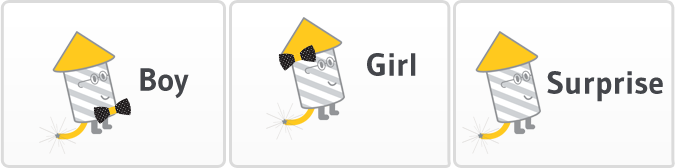
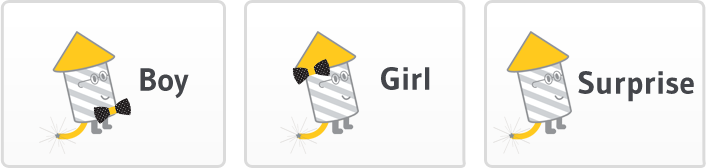
[enroll] page 1: child's info submit

diff --git a/app/assets/stylesheets/enrolment.css.scss b/app/assets/stylesheets/enrolment.css.scss
@@ -50,6 +50,7 @@
       margin: 20px auto 0;
       input {
         margin-bottom: 0;
+        width: 226px;
       }
     }
     .text.italic {
@@ -62,22 +63,18 @@
   }
   #btn-submit {
     width: 265px;
-    height: 40px;
-    position: absolute;
-    z-index: 100;
-    opacity: 0;
+    background-image: url("common/icon-right-arrow.png");
+    width: 265px;
+    background-position: 220px 16px;
+    background-repeat: no-repeat;
+    padding-right: 20px;
+    font-size: 20px;
   }
   #lnk-submit {
     padding-left: 30px;
     padding-right: 30px;
   }
   #birthday {
-    input {
-      width: 86px;
-    }
-    #child_day ~ label{
-      left: 106px !important;
-    }
     .info-panel {
       width: 314px;
       div:nth-child(2) input {
@@ -91,36 +88,39 @@
       margin-left: 5px;
     }
   }
-  #name {
-    input {
-      width: 226px;
-    }
-    .info-panel {
-      width: 460px;
-      &  > div:first-child input{
-        margin-right: 8px;
-      }
+  #name .info-panel {
+    width: 460px;
+    &  > div:first-child input{
+      margin-right: 8px;
     }
   }
   #gender {
     margin-top: 25px;
+    input[type=radio] {
+      display: none;
+    }
+    label.collection_radio_buttons {
+      width: auto;
+      margin: 0;
+    }
     .icon-question {
       margin-left: 15px;
     }
     .icon-gender {
       background: url('common/icon-gender.png') no-repeat;
       height: 168px;
-      width: 224px;
+      width: 222px;
+      cursor: pointer;
       &.boy {
         background-position: 0 0;
         width: 226px;
       }
       &.girl {
-        background-position: -227px 0;
-        margin: 0 15px;
+        background-position: -244px 0;
+        margin: 0 17px;
       }
       &.surprize {
-        background-position: -451px 0;
+        background-position: -484px 0;
       }
     }
   }

diff --git a/app/assets/stylesheets/general_ui.css.scss b/app/assets/stylesheets/general_ui.css.scss
@@ -162,6 +162,7 @@ a.underline-link { border-bottom: solid 1px #ffc91e; }
 .icon-question {
   width: 23px;
   height: 23px;
+  cursor: pointer;
 }
 
 .alert-box{

diff --git a/app/assets/javascripts/application.js b/app/assets/javascripts/application.js
@@ -13,4 +13,5 @@
 //= require jquery
 //= require jquery_ujs
 //= require twitter/bootstrap
+//= require bootstrap-datepicker
 //= require application

diff --git a/app/assets/stylesheets/application.css b/app/assets/stylesheets/application.css
@@ -11,4 +11,5 @@
  *= require_self
  *= require_tree .
  *= require bootstrap_and_overrides
+ *= require bootstrap-datepicker
  */

diff --git a/app/controllers/enrolment_controller.rb b/app/controllers/enrolment_controller.rb
@@ -1,5 +1,16 @@
 class EnrolmentController < ApplicationController
   def step_1
+    @child = Baby.new
+  end
+  def create_baby
+    birthday = params[:child][:birthday]
+    params[:child][:birthday] = Date.strptime(birthday, '%m/%d/%Y') if birthday.present?
+    @child = Baby.new params[:child]
+    if @child.save
+      redirect_to enrolment_step_2_path
+    else
+      render enrolment_step_1_path
+    end
   end
 
   def step_2

diff --git a/db/migrate/20121128093841_create_babies.rb b/db/migrate/20121128093841_create_babies.rb
@@ -1,0 +1,13 @@
+class CreateBabies < ActiveRecord::Migration
+  def change
+    create_table :babies do |t|
+      t.string :first_name, :null => false
+      t.string :last_name, :null => false
+      t.date :birthday
+      t.integer :gender
+      t.integer :caretaker #user_id
+
+      t.timestamps
+    end
+  end
+end

diff --git a/app/helpers/enrolment_helper.rb b/app/helpers/enrolment_helper.rb
@@ -1,2 +1,9 @@
 module EnrolmentHelper
+  def gender_images_options
+    [
+      [1, '<div class="icon-gender boy pull-left"></div>'.html_safe] ,
+      [-1, '<div class="icon-gender girl pull-left"></div>'.html_safe],
+      [0, '<div class="icon-gender surprize pull-left"></div>'.html_safe]
+    ]
+  end
 end

diff --git a/config/routes.rb b/config/routes.rb
@@ -5,6 +5,7 @@ Littlespark::Application.routes.draw do
   get "enrolment/step_4"
   get "enrolment/step_5"
   get "enrolment/finish"
+  post 'create_baby', :to => 'enrolment#create_baby'
 
   devise_for :users
 

diff --git a/app/models/baby.rb b/app/models/baby.rb
@@ -1,0 +1,5 @@
+class Baby < ActiveRecord::Base
+  attr_accessible :birthday, :caretaker, :first_name, :gender, :last_name
+  validates_presence_of :first_name, :last_name
+
+end

diff --git a/spec/models/baby_spec.rb b/spec/models/baby_spec.rb
@@ -1,0 +1,5 @@
+require 'spec_helper'
+
+describe Baby do
+  pending "add some examples to (or delete) #{__FILE__}"
+end
